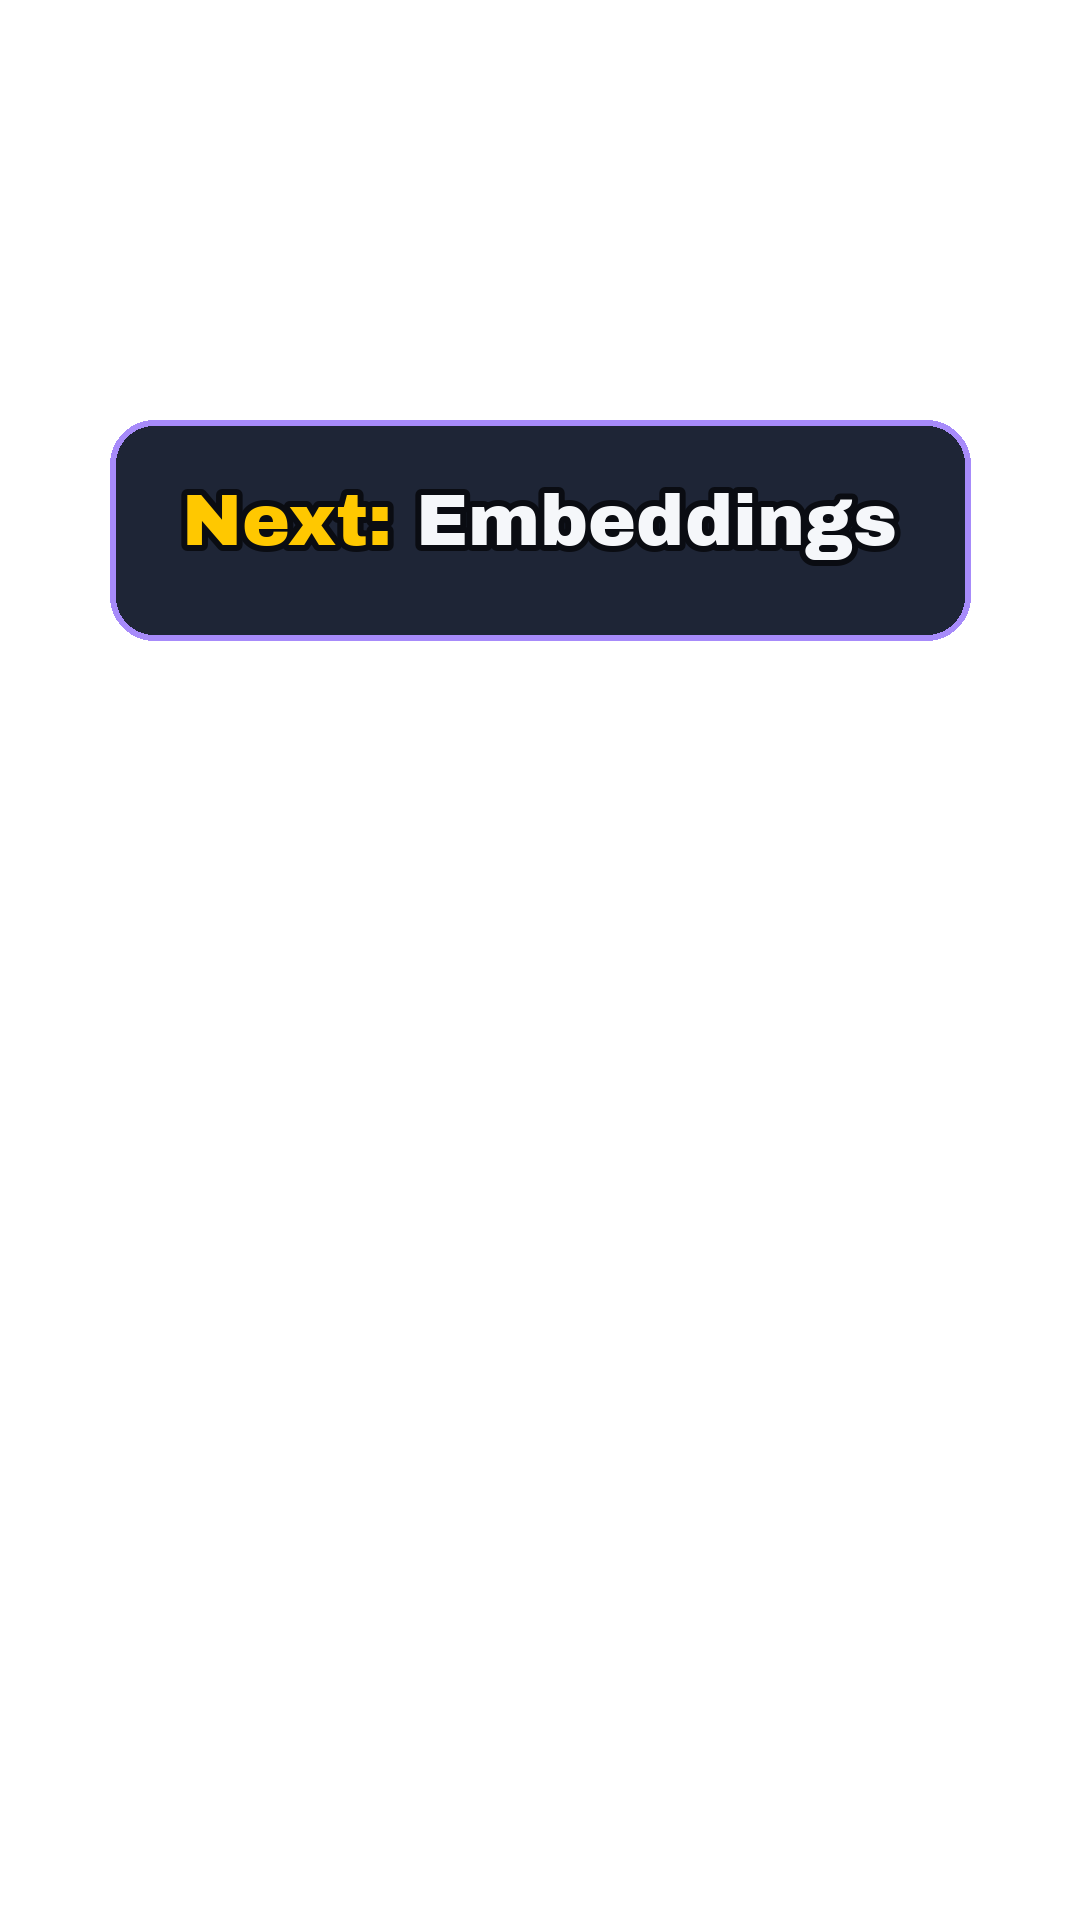
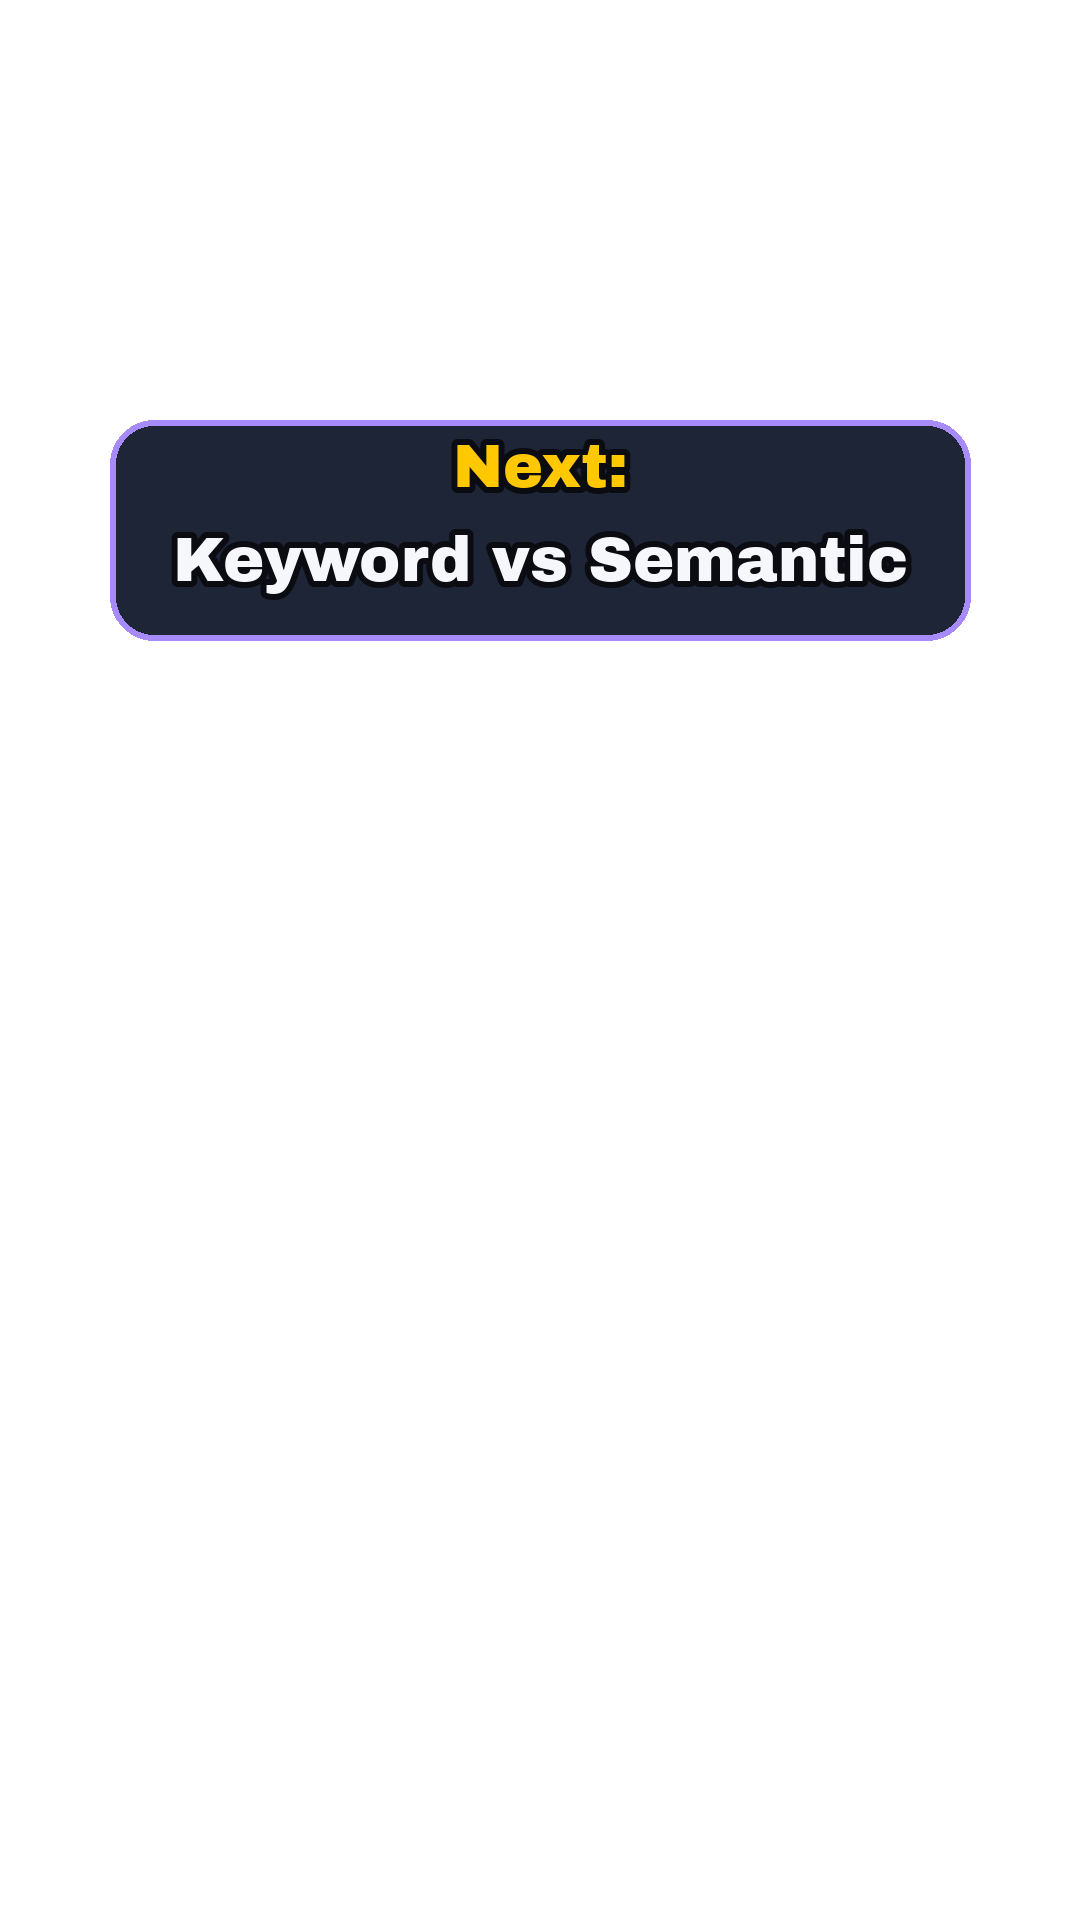
RAG reel scene 7: Next card now Keyword vs Semantic

Changed region(s): [[0.1528, 0.2188, 0.8556, 0.3125]]

diff --git a/reels/2026/10/2026-10-16-rag-pipeline-animated/generate.py b/reels/2026/10/2026-10-16-rag-pipeline-animated/generate.py
@@ -146,7 +146,7 @@ def s6(add):
     add("04-icons-pipeline-managed",im)
 @scene(7)
 def s7(add):
-    im,d=L(); d.rounded_rectangle((110,420,970,640),radius=44,fill=CARD,outline=VIOLET,width=6); rich(d,[("Next: ",YEL),("Embeddings",WHITE)],495,F(AB,72)); add("01-card-next-embeddings",im)
+    im,d=L(); d.rounded_rectangle((110,420,970,640),radius=44,fill=CARD,outline=VIOLET,width=6); ctext(d,"Next:",445,F(AB,60),fill=YEL); ctext(d,"Keyword vs Semantic",535,F(AB,62)); add("01-card-next-embeddings",im)
     im,d=L(); ctext(d,"|",690,F(AB,90),fill=MUTED,stroke=0); add("02-divider",im)
     im,d=L(); d.rounded_rectangle((110,850,970,1070),radius=44,fill=CARD,outline=YEL,width=6); rich(d,[("Follow",WHITE),(" + ",YEL),("Save",WHITE)],920,F(AB,96)); add("03-card-follow-save",im)
     im,d=L(); ctext(d,"@shivanshu_builds",1200,F(PB,64),stroke=4); add("04-handle",im)
